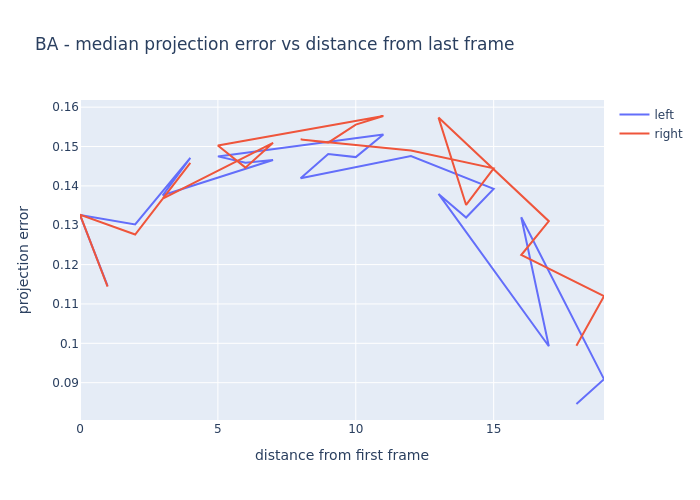
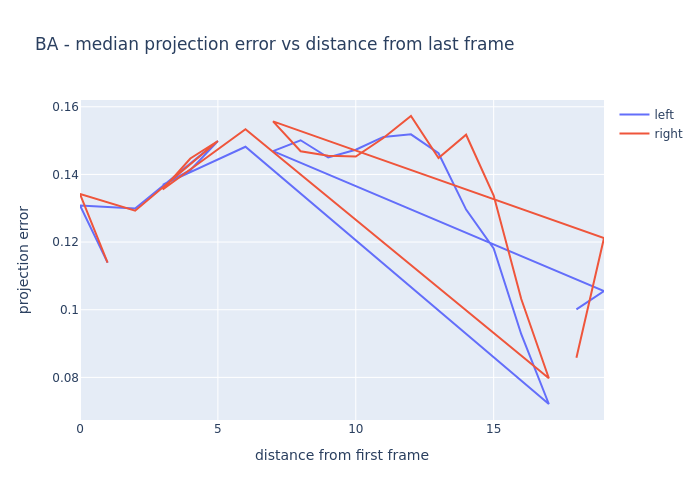
finished write graphs code

diff --git a/VAN_ex/code/ProjectReport.py b/VAN_ex/code/ProjectReport.py
@@ -41,16 +41,15 @@ def present_tracking_statistics(database):
 
 def show_locations_trajectory(ground_truth_locations, pnp_locations, bundle_adjustment_locations,
                               loop_closure_locations):
-
     fig, ax = plt.subplots(figsize=(19.2, 14.4))
     ax.scatter(x=ground_truth_locations[:, 0], y=ground_truth_locations[:, 2],
-            label='Ground Truth', s=2, alpha=0.4, c='tab:blue')
+               label='Ground Truth', s=10, alpha=0.4, c='tab:blue')
     ax.scatter(x=pnp_locations[:, 0], y=pnp_locations[:, 2],
-            label='PnP', s=10, alpha=0.7, c='tab:olive')
+               label='PnP', s=10, alpha=0.7, c='tab:orange')
     ax.scatter(x=bundle_adjustment_locations[:, 0], y=bundle_adjustment_locations[:, 2],
-            label='Bundle Adjustment', s=10, alpha=0.7, c='tab:green')
+               label='Bundle Adjustment', s=30, alpha=0.7, c='tab:green')
     ax.scatter(x=loop_closure_locations[:, 0], y=loop_closure_locations[:, 2],
-            label='Loop Closure', s=30, alpha=0.7, c='tab:red')
+               label='Loop Closure', s=30, alpha=0.7, c='tab:red')
     ax.legend(fontsize='20')
     plt.xlabel('x')
     plt.ylabel('z')
@@ -60,16 +59,16 @@ def show_locations_trajectory(ground_truth_locations, pnp_locations, bundle_adju
 def plot_bundle_error_before_after_opt(keyframes_list, mean_factor_error_before, mean_factor_error_after, title):
     fig = go.Figure()
     fig.add_trace(
-        go.Scatter(x=keyframes_list, y=mean_factor_error_before, mode='lines', name='before optimization error'))
+        go.Scatter(x=keyframes_list, y=mean_factor_error_before, mode='lines', name='Before'))
     fig.add_trace(
-        go.Scatter(x=keyframes_list, y=mean_factor_error_after, mode='lines', name='after optimization error'))
+        go.Scatter(x=keyframes_list, y=mean_factor_error_after, mode='lines', name='After'))
     fig.update_layout(title=title, xaxis_title='Keyframe id', yaxis_title=title)
     fig.write_image(f'{OUTPUT_DIR}{title}.png')
 
 
 def PnP_median_projection_error_per_distance():
     random_track_ids = random.sample(range(db.get_tracks_number()), 500)
-    left_camera_mats_in_world_coordinates = db.get_left_camera_mats_in_world_coordinates()
+    # left_camera_mats_in_world_coordinates = db.get_left_camera_mats_in_world_coordinates()
     # key = distance from last frame of track, value = list of projection errors (from different tracks)
     right_projection_err = dict()
     left_projection_err = dict()
@@ -78,14 +77,14 @@ def PnP_median_projection_error_per_distance():
         frames_dict = track.get_frames_dict()
         last_frame_id, last_kp_idx = track.get_last_frame_id_and_kp_idx()
         pt_3d = db.get_frame_obj(last_frame_id).get_3d_point(last_kp_idx)  # in coordinates of last frame
-        last_frame_mat = left_camera_mats_in_world_coordinates[last_frame_id]
+        last_frame_mat = pnp_mats[last_frame_id]
         r, t = last_frame_mat[:, :3], last_frame_mat[:, 3]
         world_coor_3d_pt = r.T @ (pt_3d - t)
         for frame_id, kp_idx in frames_dict.items():
             if frame_id == last_frame_id:
                 break
             frame_obj = db.get_frame_obj(frame_id)
-            extrinsic_left = left_camera_mats_in_world_coordinates[frame_id]
+            extrinsic_left = pnp_mats[frame_id]
             extrinsic_right = np.array(extrinsic_left, copy=True)
             extrinsic_right[0][3] += Frame.INDENTATION_RIGHT_CAM_MAT
             proj_left_pixel = utils.project_3d_pt_to_pixel(Frame.k, extrinsic_left, world_coor_3d_pt)
@@ -105,12 +104,23 @@ def PnP_median_projection_error_per_distance():
     median_proj_err_left = np.array([statistics.median(left_projection_err[d]) for d in distances])
     median_proj_err_right = np.array([statistics.median(right_projection_err[d]) for d in distances])
 
-    fig = go.Figure()
-    fig.add_trace(go.Scatter(x=distances, y=median_proj_err_left, mode='lines', name='left'))
-    fig.add_trace(go.Scatter(x=distances, y=median_proj_err_right, mode='lines', name='right'))
-    fig.update_layout(title='PnP - median projection error vs track length',
-                      xaxis_title='distance from last frame', yaxis_title='projection error')
-    fig.write_image(f'{OUTPUT_DIR}PnP_median_projection_error_vs_track_length.png')
+    fig = plt.figure()
+    plt.title('PnP - median projection error vs track length')
+    plt.plot(distances, median_proj_err_left, label='left')
+    plt.plot(distances, median_proj_err_right, label='right')
+    plt.ylabel('projection error')
+    plt.xlabel('distance from last frame')
+    plt.legend()
+
+    fig.savefig(f'{OUTPUT_DIR}PnP_median_projection_error_vs_track_length.png')
+    plt.close(fig)
+
+    # fig = go.Figure()
+    # fig.add_trace(go.Scatter(x=distances, y=median_proj_err_left, mode='lines', name='left'))
+    # fig.add_trace(go.Scatter(x=distances, y=median_proj_err_right, mode='lines', name='right'))
+    # fig.update_layout(title='PnP - median projection error vs track length',
+    #                   xaxis_title='distance from last frame', yaxis_title='projection error')
+    # fig.write_image(f'{OUTPUT_DIR}PnP_median_projection_error_vs_track_length.png')
 
 
 def from_gtsam_poses_to_world_coordinates_mats(poses_dict):
@@ -123,22 +133,34 @@ def from_gtsam_poses_to_world_coordinates_mats(poses_dict):
         r_mat, _ = cv.Rodrigues(r_vec)
         r_extrinsic, t_extrinsic = utils.invert_extrinsic_matrix(r_mat, t_vec)
         mats_list.append(np.hstack((r_extrinsic, t_extrinsic.reshape(3, 1))))
-    return mats_list
+    return np.array(mats_list)
 
 
 def BA_median_projection_error_per_distance():
     distances, median_proj_err_left, median_proj_err_right = bundle_adjustment.get_median_projection_error_per_distance()
-    fig = go.Figure()
-    fig.add_trace(go.Scatter(x=distances, y=median_proj_err_left, mode='lines', name='left'))
-    fig.add_trace(go.Scatter(x=distances, y=median_proj_err_right, mode='lines', name='right'))
-    fig.update_layout(title='BA - median projection error vs distance from last frame',
-                      xaxis_title='distance from first frame', yaxis_title='projection error')
-    fig.write_image(f'{OUTPUT_DIR}BA_median_projection_error_vs_distance_from_last_frame.png')
+    fig = plt.figure()
+    plt.title('BA - median projection error vs distance from last frame')
+    plt.plot(distances, median_proj_err_left, label='left')
+    plt.plot(distances, median_proj_err_right, label='right')
+    plt.ylabel('projection error')
+    plt.xlabel('distance from last frame')
+    plt.legend()
+
+    fig.savefig(f'{OUTPUT_DIR}BA_median_projection_error_vs_distance_from_last_frame.png')
+    plt.close(fig)
+
+    # distances, median_proj_err_left, median_proj_err_right = bundle_adjustment.get_median_projection_error_per_distance()
+    # fig = go.Figure()
+    # fig.add_trace(go.Scatter(x=distances, y=median_proj_err_left, mode='lines', name='left'))
+    # fig.add_trace(go.Scatter(x=distances, y=median_proj_err_right, mode='lines', name='right'))
+    # fig.update_layout(title='BA - median projection error vs distance from last frame',
+    #                   xaxis_title='distance from last frame', yaxis_title='projection error')
+    # fig.write_image(f'{OUTPUT_DIR}BA_median_projection_error_vs_distance_from_last_frame.png')
 
 
 def plot_location_error_along_axes(ground_truth, estimation, title):
     # ground truth and estimation is list of locations (vector with 3 coordinates)
-    diff = ground_truth - estimation
+    diff = np.abs(ground_truth - estimation)
     x_error = diff[:, 0]
     y_error = diff[:, 1]
     z_error = diff[:, 2]
@@ -154,7 +176,7 @@ def plot_location_error_along_axes(ground_truth, estimation, title):
 
 
 def plot_angle_error(ground_truth_matrices, estimation_mats, title):
-    length = len(ground_truth_matrices)
+    length = ground_truth_matrices.shape[0]
     angle_error = np.empty(length)
     for i in range(length):
         gt_vec, _ = cv.Rodrigues(ground_truth_matrices[i][:, 3])
@@ -204,6 +226,67 @@ def slice_cov_mat_to_localization_angle(cov_list):
     return cov_list_angle, cov_list_loc
 
 
+def total_length_trajectory(start_seq, end_seq, gt_locations):
+    total = 0
+    for i in range(start_seq, end_seq):
+        total += np.linalg.norm(gt_locations[i + 1] - gt_locations[i])
+    return total
+
+
+def calc_relative_motion(mat_a_to_b, mat_a_to_c):  # return mat_b_to_c
+    r_b_to_a, t_b_to_a = utils.invert_extrinsic_matrix(mat_a_to_b[:, :3], mat_a_to_b[:, 3])
+    new_r = mat_a_to_c[:, :3] @ r_b_to_a
+    new_t = mat_a_to_c[:, :3] @ t_b_to_a + mat_a_to_c[:, 3]
+    return new_r, new_t
+
+
+def relative_estimation_error_in_sequences(estimation_mats, gt_mats, gt_locations, sequnce_len):
+    # estimation_mats, gt_mats are in world coordinates
+    mats_num = estimation_mats.shape[0]
+    sequences = range(0, mats_num, sequnce_len)
+    location_errors = np.empty(len(sequences))
+    angle_errors = np.empty(len(sequences))
+    for i, start_seq in enumerate(sequences):
+        end_seq = min(start_seq + sequnce_len - 1, mats_num - 1)
+        # mechane - sum differences locations
+        total_length = total_length_trajectory(start_seq, end_seq, gt_locations)
+
+        rel_estimation_R, rel_estimation_t = calc_relative_motion(estimation_mats[start_seq], estimation_mats[end_seq])
+        rel_gt_R, rel_gt_t = calc_relative_motion(gt_mats[start_seq], gt_mats[end_seq])
+
+        # location
+        estimation_loc = ((-rel_estimation_R.T @ rel_estimation_t).reshape(1, 3))[0]
+        gt_loc = ((-rel_gt_R.T @ rel_gt_t).reshape(1, 3))[0]
+        err_loc = np.linalg.norm(estimation_loc - gt_loc)
+        location_errors[i] = err_loc / total_length
+
+        # angle
+        rel_estimation_R_vec, _ = cv.Rodrigues(rel_estimation_R)
+        rel_gt_R_vec, _ = cv.Rodrigues(rel_gt_R)
+        err_angle = np.linalg.norm(rel_estimation_R_vec - rel_gt_R_vec)
+        angle_errors[i] = err_angle / total_length
+
+    return location_errors, angle_errors, sequences
+
+
+def plot_relative_estimation_error_in_sequences(title_model, title_error_type, list_seq_len, list_errors, list_sequences_list):
+    fig = plt.figure()
+    plt.title(f"Relative {title_model} estimation {title_error_type} error with sequences of")
+    for i, seq_len in enumerate(list_seq_len):
+        plt.plot(list_sequences_list[i], list_errors[i], label=str(seq_len))
+    if title_error_type == 'location':
+        plt.ylabel("error (m/m)")
+    else:
+        plt.ylabel("error (deg/m)")
+    if title_model == 'PnP':
+        plt.xlabel("frameId")
+    else:
+        plt.xlabel("KeyFrameNum") #todo: find a way to convert it the actually frame id
+    plt.legend()
+    fig.savefig(f'{OUTPUT_DIR}{title_model}_{title_error_type}_relative_estimation_error_in_seq.png')
+    plt.close(fig)
+
+
 if __name__ == '__main__':
     ground_truth_mats = np.array(utils.read_ground_truth_matrices(utils.GROUND_TRUTH_PATH))
     ground_truth_locations = utils.calculate_ground_truth_locations_from_matrices(ground_truth_mats)
@@ -223,7 +306,7 @@ if __name__ == '__main__':
 
     mean_factor_error_after = bundle_adjustment.get_mean_factor_error_for_all_windows()
     median_projection_error_after = bundle_adjustment.get_median_projection_error_for_all_windows()
-    bundle_adjustment_poses = bundle_adjustment.get_global_keyframes_poses()
+    bundle_adjustment_poses = bundle_adjustment.get_global_keyframes_poses()  # dict
     bundle_adjustment_mats = from_gtsam_poses_to_world_coordinates_mats(bundle_adjustment_poses)
     bundle_adjustment_locations = \
         BundleAdjustment.from_poses_to_locations(bundle_adjustment_poses)
@@ -233,10 +316,10 @@ if __name__ == '__main__':
     print("starting loop closure")
     loop_closure = LoopClosure(db, pose_graph, threshold_close=500,
                                threshold_inliers_rel=0.4)
-    full_cov_before_LC = pose_graph.get_covraince_all_poses()
+    full_cov_before_LC = np.array(pose_graph.get_covraince_all_poses())
     loops_dict = loop_closure.find_loops(OUTPUT_DIR)
-    full_cov_after_LC = pose_graph.get_covraince_all_poses()
-    loop_closure_poses = pose_graph.get_global_keyframes_poses()
+    full_cov_after_LC = np.array(pose_graph.get_covraince_all_poses())
+    loop_closure_poses = pose_graph.get_global_keyframes_poses()  # dict
     loop_closure_mats = from_gtsam_poses_to_world_coordinates_mats(loop_closure_poses)
     loop_closure_locations = BundleAdjustment.from_poses_to_locations(loop_closure_poses)
 
@@ -252,11 +335,13 @@ if __name__ == '__main__':
 
     # mean factor error for each window
     plot_bundle_error_before_after_opt \
-        (keyframes_list, mean_factor_error_before, mean_factor_error_after, 'mean factor error')
+        (keyframes_list, mean_factor_error_before, mean_factor_error_after,
+         'mean factor error before and after BA optimization')
 
     # median projection error for each window
     plot_bundle_error_before_after_opt \
-        (keyframes_list, median_projection_error_before, median_projection_error_after, 'median projection error')
+        (keyframes_list, median_projection_error_before, median_projection_error_after,
+         'median projection error before and after BA optimization')
 
     PnP_median_projection_error_per_distance()  # distance from last frame of track were we computed triangulation
 
@@ -282,3 +367,27 @@ if __name__ == '__main__':
     covs_angle_after, covs_location_after = slice_cov_mat_to_localization_angle(full_cov_after_LC)
     plot_uncertainty(covs_angle_before, covs_angle_after, keyframes_list, "Angle")
     plot_uncertainty(covs_location_before, covs_location_after, keyframes_list, "Location")
+
+    # relative pnp estimation error of location and angle
+
+    pnp_errors_location, pnp_errors_angle, pnp_sequences_list = [], [], []
+    for seq_len in [100, 300, 800]:
+        location_errors, angle_errors, sequences = \
+            relative_estimation_error_in_sequences(pnp_mats, ground_truth_mats, ground_truth_locations, seq_len)
+        pnp_errors_location.append(location_errors)
+        pnp_errors_angle.append(angle_errors)
+        pnp_sequences_list.append(sequences)
+    plot_relative_estimation_error_in_sequences('PnP', 'location', [100, 300, 800], pnp_errors_location, pnp_sequences_list)
+    plot_relative_estimation_error_in_sequences('PnP', 'angle', [100, 300, 800],  pnp_errors_angle, pnp_sequences_list)
+
+    ba_errors_location, ba_errors_angle, ba_sequences_list = [], [], []
+    for seq_len in [100, 300, 800]:
+        location_errors, angle_errors, sequences = \
+            relative_estimation_error_in_sequences(bundle_adjustment_mats, ground_truth_mats_of_keyframes,
+                                                   ground_truth_locations_of_keyframes,
+                                                   int(seq_len / bundle_adjustment.get_window_len()) + 1)
+        ba_errors_location.append(location_errors)
+        ba_errors_angle.append(angle_errors)
+        ba_sequences_list.append(sequences)
+    plot_relative_estimation_error_in_sequences('BA', 'location', [100, 300, 800], ba_errors_location, ba_sequences_list)
+    plot_relative_estimation_error_in_sequences('PnP', 'angle', [100, 300, 800], ba_errors_angle, ba_sequences_list)

diff --git a/VAN_ex/code/DB/DataBase.py b/VAN_ex/code/DB/DataBase.py
@@ -129,7 +129,7 @@ class DataBase:
             concat_r = cur_r @ concat_r
             concat_t = cur_r @ concat_t + cur_t
             mats.append(np.hstack((concat_r, concat_t.reshape(3, 1))))
-        return mats
+        return np.array(mats)
 
     # ================ Tracking Statistics ================ #
 

diff --git a/VAN_ex/code/Bundle/BundleAdjustment.py b/VAN_ex/code/Bundle/BundleAdjustment.py
@@ -96,6 +96,8 @@ class BundleAdjustment:
         median_proj_err_right = np.array([statistics.median(projection_error_right[d]) for d in distances])
         return distances, median_proj_err_left, median_proj_err_right
 
+    def get_window_len(self):
+        return self._window_len
 
 
 
